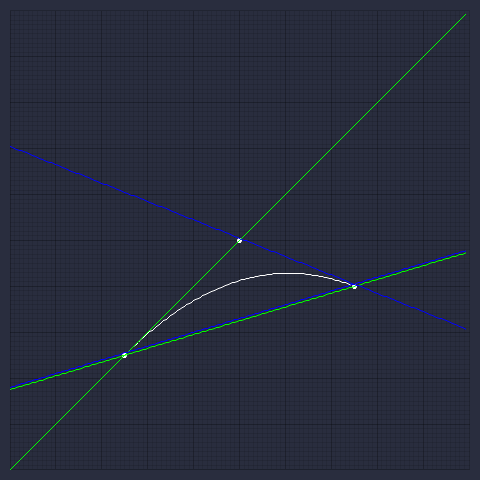
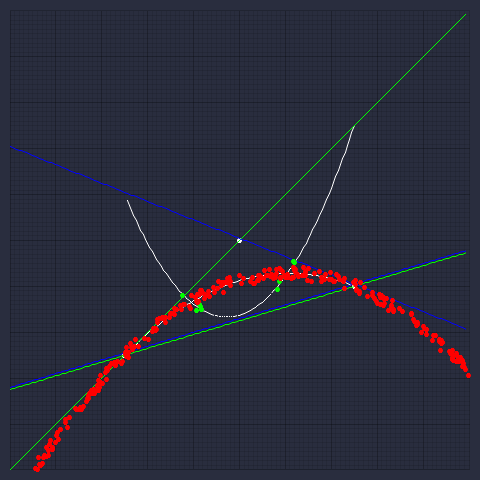
bezout resultant(wip)

diff --git a/src/lib.rs b/src/lib.rs
@@ -1,12 +1,13 @@
-use nalgebra::{DMatrix, Matrix2, Matrix2x3, Matrix3x2, Vector2, Vector3};
+use nalgebra::{DMatrix, Matrix2, Matrix2x3, Matrix3x2, Vector2, Vector3, Vector4, Matrix4};
 use plotters::prelude::*;
+use rand;
 
-use crate::bezier_implicitizer::implicit_bezier_curve;
+use crate::bezier_implicitizer::{calc_deviation, implicit_bezier_curve, factorial, binary_coef};
 
+mod bezier_implicitizer;
 mod gaussian_elimination;
 mod pesudo_inverse;
 mod qr_decomposition;
-mod bezier_implicitizer;
 
 pub fn homogeneous2euclidean(h: Vector3<f64>) -> Vector2<f64> {
     assert!(h.z != 0.0);
@@ -23,16 +24,44 @@ pub fn quadratic_bezier_curve(
     p0 * (1.0 - t) * (1.0 - t) + p1 * 2.0 * (1.0 - t) * t + p2 * t * t
 }
 
+pub fn cubic_bezier_curve(
+    p0: Vector3<f64>,
+    p1: Vector3<f64>,
+    p2: Vector3<f64>,
+    p3: Vector3<f64>,
+    t: f64,
+) -> Vector3<f64> {
+    let a = Vector4::new(t.powi(3), t.powi(2), t, 1.0);
+    let b = Matrix4::new(
+        -1.0,  3.0, -3.0, 1.0,
+         3.0, -6.0,  3.0, 0.0,
+        -3.0,  3.0,  0.0, 0.0, 
+         1.0,  0.0,  0.0, 0.0,
+    );
+    let c = Vector4::new(p0, p1, p2, p3);
+    let d = Vector4::new(
+        a.dot(&b.column(0)), 
+        a.dot(&b.column(1)),
+        a.dot(&b.column(2)), 
+        a.dot(&b.column(3)),
+    );
+    d.x * c.x + d.y * c.y + d.z * c.z + d.w * c.w 
+}
+
 pub fn quadratic_bezier_curve_by_line_in_pencil(
     p0: Vector3<f64>,
     p1: Vector3<f64>,
     p2: Vector3<f64>,
     t: f64,
-    k: f64
+    k: f64,
 ) -> Vector3<f64> {
-    if      k == 0.0 { p0.cross(&(2.0 * p1 * (1.0 - t) + p2 * t)) }
-    else if k == 1.0 { p2.cross(&(2.0 * p1 * t + p0 * (1.0 - t))) }
-    else { unimplemented!() }
+    if k == 0.0 {
+        p0.cross(&(2.0 * p1 * (1.0 - t) + p2 * t))
+    } else if k == 1.0 {
+        p2.cross(&(2.0 * p1 * t + p0 * (1.0 - t)))
+    } else {
+        unimplemented!()
+    }
 }
 
 pub fn quadratic_bezier_curve_by_lines_of_pencils(
@@ -63,12 +92,21 @@ fn chart_context() {
     let p1 = Vector3::new(0.0, 0.0, 1.0);
     let p2 = Vector3::new(0.5, -0.2, 1.0);
 
+    let p3 = Vector3::new(0.5, 0.5, 1.0);
+    let p4 = Vector3::new(0.0, -1.0, 1.0);
+    let p5 = Vector3::new(-0.5, 0.2, 1.0);
+
     chart
-        .draw_series(vec![
+        .draw_series(
+            vec![
                 Circle::new((p0.x as f32, p0.y as f32), 2.0, WHITE.filled()),
                 Circle::new((p1.x as f32, p1.y as f32), 2.0, WHITE.filled()),
-                Circle::new((p2.x as f32, p2.y as f32), 2.0, WHITE.filled())
-        ].into_iter()).unwrap();
+                Circle::new((p2.x as f32, p2.y as f32), 2.0, WHITE.filled()),
+            ]
+            .into_iter(),
+        )
+        .unwrap();
+
     chart
         .draw_series(LineSeries::new(
             (0..100)
@@ -77,21 +115,35 @@ fn chart_context() {
                 .map(|hp| homogeneous2euclidean(hp))
                 .map(|ep| (ep.x as f32, ep.y as f32)),
             &WHITE,
-        )).unwrap();
+        ))
+        .unwrap();
+
+    chart
+        .draw_series(LineSeries::new(
+            (0..100)
+                .map(|t| t as f64 / 100.0)
+                .map(|t| quadratic_bezier_curve_by_lines_of_pencils(p3, p4, p5, t))
+                .map(|hp| homogeneous2euclidean(hp))
+                .map(|ep| (ep.x as f32, ep.y as f32)),
+            &WHITE,
+        ))
+        .unwrap();
 
     for t in 0..2 {
         let l0 = quadratic_bezier_curve_by_line_in_pencil(p0, p1, p2, t as f64, 0.0);
         let l1 = quadratic_bezier_curve_by_line_in_pencil(p0, p1, p2, t as f64, 1.0);
-        let it = (-100..100) .map(|x| x as f64 * 0.01);
+        let it = (-100..100).map(|x| x as f64 * 0.01);
         chart
             .draw_series(LineSeries::new(
-                it.clone().map(|x| (x as f32, (-l0.x / l0.y *  x - l0.z / l0.y) as f32)),
+                it.clone()
+                    .map(|x| (x as f32, (-l0.x / l0.y * x - l0.z / l0.y) as f32)),
                 &GREEN,
             ))
             .unwrap();
         chart
             .draw_series(LineSeries::new(
-                it.clone().map(|x| (x as f32, (-l1.x / l1.y *  x - l1.z / l1.y + 1e-2) as f32)),
+                it.clone()
+                    .map(|x| (x as f32, (-l1.x / l1.y * x - l1.z / l1.y + 1e-2) as f32)),
                 &BLUE,
             ))
             .unwrap();
@@ -101,31 +153,55 @@ fn chart_context() {
     let l01 = quadratic_bezier_curve_by_line_in_pencil(p0, p1, p2, 1.0, 0.0);
     let l10 = quadratic_bezier_curve_by_line_in_pencil(p0, p1, p2, 0.0, 1.0);
     let l11 = quadratic_bezier_curve_by_line_in_pencil(p0, p1, p2, 1.0, 1.0);
-    let det = |x: Vector3<f64>| l00.dot(&x) * l11.dot(&x) - l01.dot(&x) * l10.dot(&x);
+    let s00 = quadratic_bezier_curve_by_line_in_pencil(p3, p4, p5, 0.0, 0.0);
+    let s01 = quadratic_bezier_curve_by_line_in_pencil(p3, p4, p5, 1.0, 0.0);
+    let s10 = quadratic_bezier_curve_by_line_in_pencil(p3, p4, p5, 0.0, 1.0);
+    let s11 = quadratic_bezier_curve_by_line_in_pencil(p3, p4, p5, 1.0, 1.0);
+    print!("lines: {}, {}, {}, {}", l00, l01, l10, l11);
+    let detA = |x: Vector3<f64>| l00.dot(&x) * l11.dot(&x) - l01.dot(&x) * l10.dot(&x);
+    let detB = |x: Vector3<f64>| s00.dot(&x) * s11.dot(&x) - s01.dot(&x) * s10.dot(&x);
+    let detC = |x: Vector3<f64>| (l00 - s00).dot(&x) * (l11 - s11).dot(&x) - (l01 - s01).dot(&x) * (l10 - s10).dot(&x);
     for i in -100..100 {
         let t = i as f64 * 0.1;
-        assert!(det(quadratic_bezier_curve(p0, p1, p2, t)).abs() < 1e-10); 
+        assert!(detA(quadratic_bezier_curve(p0, p1, p2, t)).abs() < 1e-10);
     }
 
-    for i in -100..100 {
-        let t = i as f64 * 0.1;
-        let p = quadratic_bezier_curve(p0, p1, p2, t);
-        assert!(implicit_bezier_curve(p, vec![p0, p1, p2]).unwrap().abs() < 1e-10); 
+    let m1 = implicit_bezier_curve(vec![p0, p1, p2]);
+    //let m2 = implicit_bezier_curve(vec![p3, p4, p5]);
+
+    {
+        let mut points: Vec<Vector3<f64>> = vec![];
+        let mut points_: Vec<Vector3<f64>> = vec![];
+        for _ in 0..10000 {
+            let p = Vector3::<f64>::new(
+                rand::random::<f64>() * 2.0 - 1.0,
+                rand::random::<f64>() * 2.0 - 1.0,
+                1.0,
+            );
+            if detA(p).abs() < 0.05 && detB(p).abs() < 0.05 {
+                points.push(p);
+            }
+            if 
+            calc_deviation(&m1, p).unwrap().abs() < 0.02 
+            //&& 
+            //calc_deviation(&m2, p).unwrap().abs() < 0.02
+             {
+                points_.push(p);
+            }
+        }
+        chart
+            .draw_series(
+                points
+                    .iter()
+                    .map(|p| Circle::new((p.x as f32, p.y as f32), 2.0, GREEN.filled())),
+            )
+            .unwrap();
+        chart
+            .draw_series(
+                points_
+                    .iter()
+                    .map(|p| Circle::new((p.x as f32, p.y as f32), 2.0, RED.filled())),
+            )
+            .unwrap();
     }
-
-
-
-    let a = DMatrix::<Vector3<f64>>::from_row_slice(2, 2, &[
-        Vector3::<f64>::z(),
-        Vector3::<f64>::z(),
-        Vector3::<f64>::z(),
-        Vector3::<f64>::z(),
-    ]);
-    let b = DMatrix::<Vector3<f64>>::from_row_slice(2, 2, &[
-        Vector3::<f64>::x(),
-        Vector3::<f64>::y(),
-        Vector3::<f64>::z(),
-        Vector3::<f64>::z(),
-    ]);
-    println!("{}", a + b);
 }

diff --git a/src/bezier_implicitizer.rs b/src/bezier_implicitizer.rs
@@ -1,8 +1,6 @@
-use nalgebra::{Vector3, DMatrix};
+use nalgebra::{DMatrix, Vector3};
 
-
-
-fn factorial(n: usize) -> usize {
+pub fn factorial(n: usize) -> usize {
     let mut f = 1;
     for i in 1..n + 1 {
         f *= i;
@@ -10,36 +8,55 @@ fn factorial(n: usize) -> usize {
     f
 }
 
-fn binary_coef(n: usize, k: usize) -> usize {
+pub fn binary_coef(n: usize, k: usize) -> usize {
     factorial(n) / (factorial(n - k) * factorial(k))
 }
 
-pub fn implicit_bezier_curve(trgt_point: Vector3<f64>, ctrl_points: Vec::<Vector3<f64>>) -> Result<f64, &'static str> {
+pub fn implicit_bezier_curve(ctrl_points: Vec<Vector3<f64>>) -> DMatrix<Vector3<f64>> {
     let n = ctrl_points.len();
-    let mut mtx = DMatrix::<f64>::zeros(n, n);
-    for i in 0..n {
-        for j in 0..n {
-            let mut line = 0.0;
+    let mut mtx = DMatrix::<Vector3<f64>>::zeros(n - 1, n - 1);
+    for i in 0..n - 1 {
+        for j in 0..n - 1 {
+            let mut line = Vector3::<f64>::zeros();
             let s = i + j + 1;
-            for l in 0..s {
+            for l in 0..n {
+                if l > s { continue; }
                 let m = s - l;
-                let c = (binary_coef(n, l) * binary_coef(n, m)) as f64;
-                line += c * (ctrl_points[l].cross(&ctrl_points[m])).dot(&trgt_point);
+                if m < n && l < m {
+                    let c = (binary_coef(n - 1, l) * binary_coef(n - 1, m)) as f64;
+                    line += c * (ctrl_points[l].cross(&ctrl_points[m]));
+                    println!(
+                        "l: {}, m: {}, c: {}, line: [{}, {}, {}]",
+                        l, m, c, line.x, line.y, line.z
+                    );
+                }
             }
             mtx[(i, j)] = line;
         }
     }
+    mtx
+}
 
+pub fn calc_deviation(m: &DMatrix<Vector3<f64>>, p: Vector3<f64>) -> Result<f64, &'static str> {
+    let n = m.nrows();
+    let mut m1 = DMatrix::<f64>::zeros(n, n);
+    for i in 0..n {
+        for j in 0..n {
+            m1[(i, j)] = m[(i, j)].dot(&p);
+        }
+    }
     match n {
-        2 => Ok(mtx.determinant()),
-        3 => { 
-            let mut alt = DMatrix::<f64>::zeros(n, n);
-            alt[(0, 0)] = mtx.clone().remove_column(2).determinant();
-            alt[(0, 1)] = mtx.clone().remove_column(1).determinant();
-            alt[(1, 0)] = mtx.clone().remove_column(1).determinant();
-            alt[(1, 1)] = mtx.clone().remove_column(0).determinant();
-            Ok(alt.determinant())
+        2 => Ok(m1.determinant()),
+        /*
+        3 => {
+            let mut d = DMatrix::<f64>::zeros(n, n);
+            d[(0, 0)] = m1.clone().remove_column(2).determinant();
+            d[(0, 1)] = m1.clone().remove_column(1).determinant();
+            d[(1, 0)] = m1.clone().remove_column(1).determinant();
+            d[(1, 1)] = m1.clone().remove_column(0).determinant();
+            Ok(d.determinant())
         },
-        _ => Err("Neither n <= 1 nor n >= 4 are implemented.")
+        */
+        _ => Err("Neither n <= 1 nor n >= 4 are implemented."),
     }
 }
